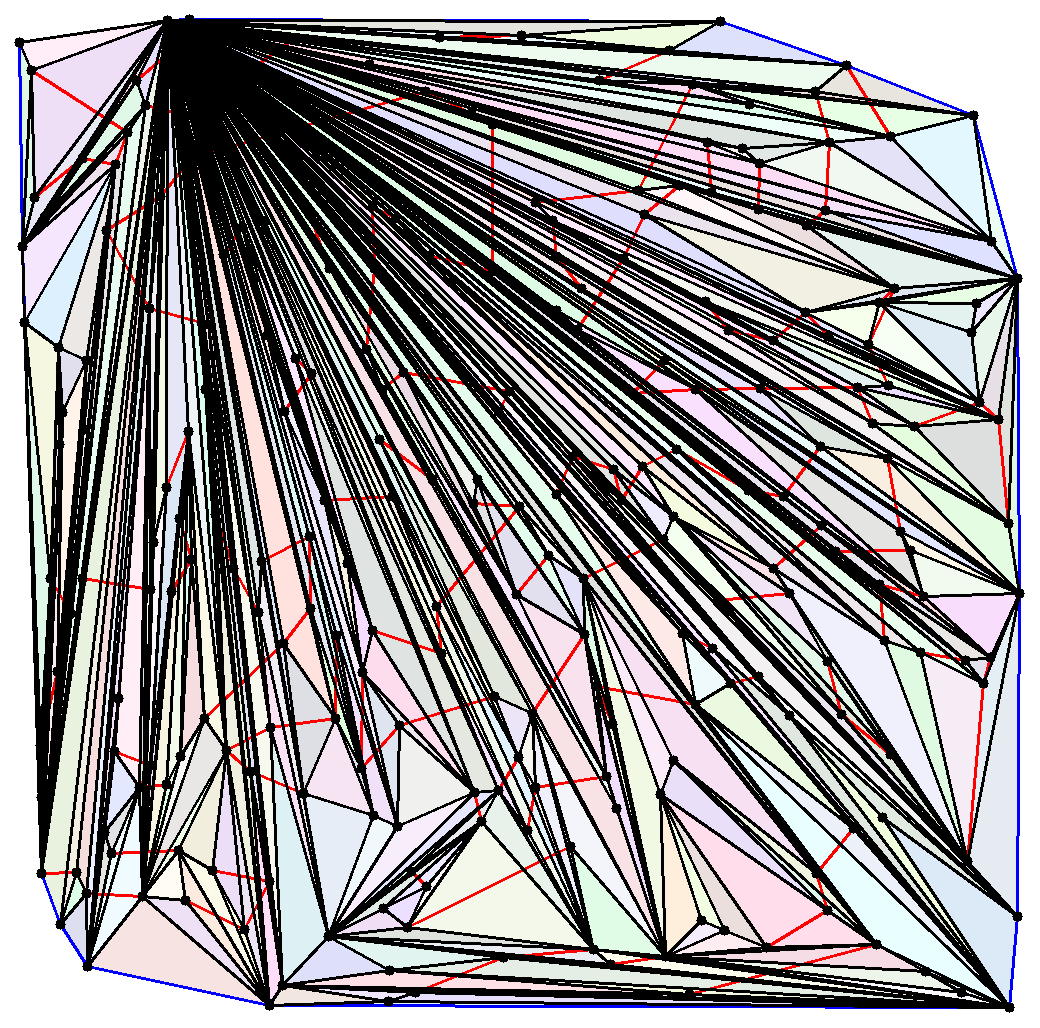
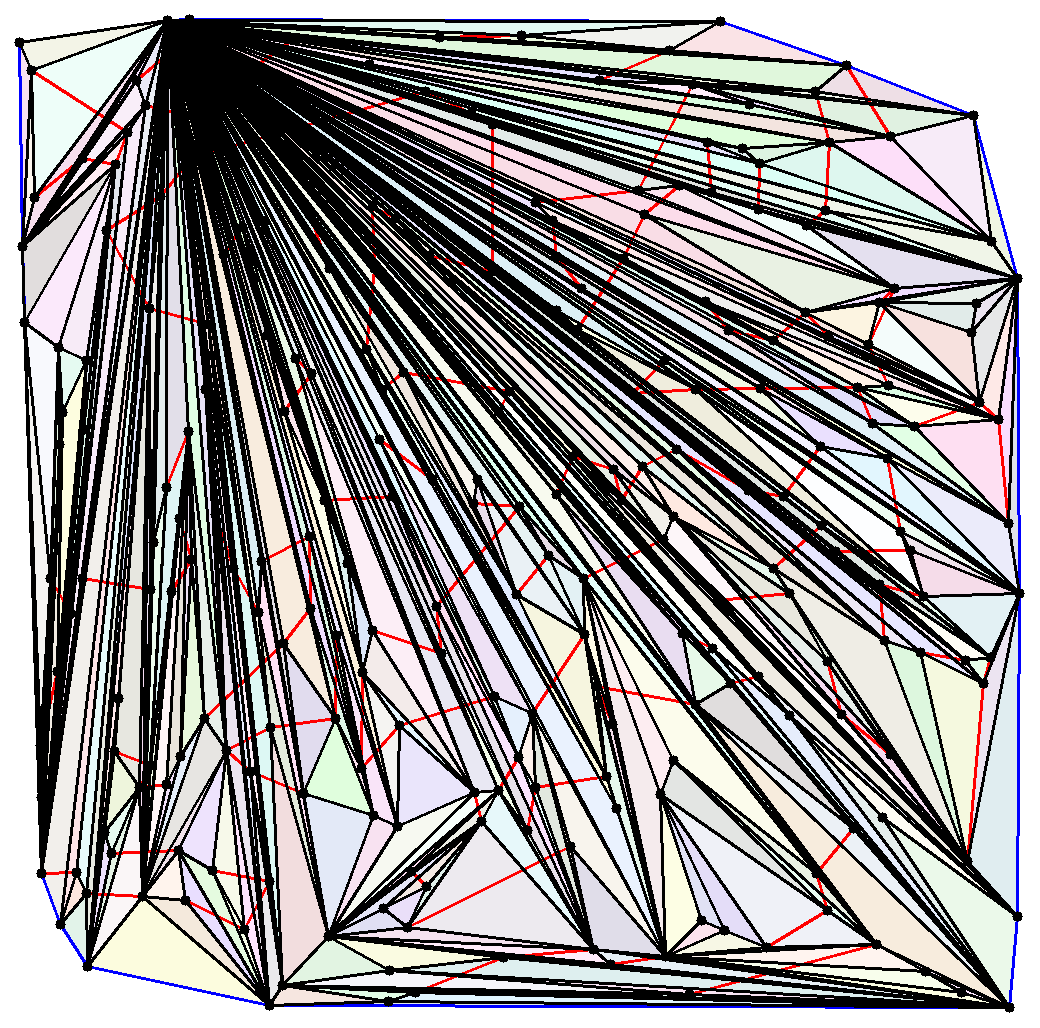
resolved duplicated edges issue

diff --git a/data.cpp b/data.cpp
@@ -117,14 +117,12 @@ void Instance::triangulate(){
 			//std::cout << "inserted " << i << ": " << triangles.size() << std::endl;
 		}
 	int i=0;
-	//DrawResult(std::to_string(i));
+	DrawResult(std::to_string(i));
 	for (std::pair<int, int> con : constraints){
 		i++;
 		resolve_cross(con);
-		//if (i<10)
-		//	DrawResult(std::to_string(i));
+		DrawResult(std::to_string(i));
 	}
-	DrawResult("");
 }
 
 void Instance::triangulate_polygon(std::deque<int> polygon){
@@ -406,6 +404,10 @@ MyNum turn(Point p1, Point p2, Point p3){
 	return (p2.x - p1.x) * (p3.y - p1.y) - (p2.y - p1.y) * (p3.x - p1.x);
 }
 
+std::pair<int, int> sorted_pair(int a, int b) {
+	return (a > b) ? std::make_pair(b, a) : std::make_pair(a, b); 
+}
+
 void Data::ReadData(){
 	cout << "--------------------ReadData--------------------" << endl;
 	Json::Value root;
@@ -461,16 +463,16 @@ void Data::WriteData(){
 	std::set<std::pair<int, int>> const_edges;
 	std::set<std::pair<int, int>> int_edges;
 	for (std::pair<int, int> e : inst->constraints){
-		const_edges.insert(e);
+		const_edges.insert(sorted_pair(e.first, e.second));
 	}
 	for (int i = 1 ; i < inst->boundary.size() ; i++)
-		const_edges.insert(std::make_pair(inst->boundary[i-1], inst->boundary[i]));
-	const_edges.insert(std::make_pair(inst->boundary[0], inst->boundary[inst->boundary.size()-1]));
+		const_edges.insert(sorted_pair(inst->boundary[i-1], inst->boundary[i]));
+	const_edges.insert(sorted_pair(inst->boundary[0], inst->boundary[inst->boundary.size()-1]));
 	cout<<"Number of Triangles: "<< inst->triangles.size() <<endl;
 	for (Triangle* t : inst->triangles) {
-		std::pair<int, int> e1 = std::make_pair(t->p[0], t->p[1]);
-		std::pair<int, int> e2 = std::make_pair(t->p[1], t->p[2]);
-		std::pair<int, int> e3 = std::make_pair(t->p[0], t->p[2]);
+		std::pair<int, int> e1 = sorted_pair(t->p[0], t->p[1]);
+		std::pair<int, int> e2 = sorted_pair(t->p[1], t->p[2]);
+		std::pair<int, int> e3 = sorted_pair(t->p[0], t->p[2]);
 		auto cend = const_edges.end();
 		auto iend = int_edges.end();
 		// if (const_edges.find(e1) == cend && const_edges.find(e2) == cend && int_edges.find(e1) == iend && int_edges.find(e2) == iend)
@@ -536,24 +538,24 @@ void Data::DrawResult(){
 	std::set<std::pair<int, int>> const_edges;
 	std::set<std::pair<int, int>> int_edges;
 	for (std::pair<int, int> e : inst->constraints){
-		const_edges.insert(e);
+		const_edges.insert(sorted_pair(e.first, e.second));
 		cv::line(img, cv::Point(minw+(int)inst->pts[e.first].x.toDouble()*rad,minh-(int)inst->pts[e.first].y.toDouble()*rad), cv::Point(minw+(int)inst->pts[e.second].x.toDouble()*rad,minh-(int)inst->pts[e.second].y.toDouble()*rad), cv::Scalar(0,0,255), 2);
 	}
 	cout<<inst->boundary.size()<<endl;
 	for (int i = 1 ; i < inst->boundary.size() ; i++){
-		const_edges.insert(std::make_pair(inst->boundary[i-1], inst->boundary[i]));
+		const_edges.insert(sorted_pair(inst->boundary[i-1], inst->boundary[i]));
 		cv::line(img, cv::Point(minw+(int)inst->pts[inst->boundary[i-1]].x.toDouble()*rad,minh-(int)inst->pts[inst->boundary[i-1]].y.toDouble()*rad), cv::Point(minw+(int)inst->pts[inst->boundary[i]].x.toDouble()*rad,minh-(int)inst->pts[inst->boundary[i]].y.toDouble()*rad), cv::Scalar(255,0,0), 2);
 	}
-	const_edges.insert(std::make_pair(inst->boundary[0], inst->boundary[inst->boundary.size()-1]));
+	const_edges.insert(sorted_pair(inst->boundary[0], inst->boundary[inst->boundary.size()-1]));
 	//cout<<"const edges"<<endl;
-	for (std::pair<int, int> e:const_edges)
+	//for (std::pair<int, int> e:const_edges)
 		//cout<<e.first<<" "<<e.second<<endl;
 	cv::line(img, cv::Point(minw+(int)inst->pts[inst->boundary[0]].x.toDouble()*rad,minh-(int)inst->pts[inst->boundary[0]].y.toDouble()*rad), cv::Point(minw+(int)inst->pts[inst->boundary[inst->boundary.size()-1]].x.toDouble()*rad,minh-(int)inst->pts[inst->boundary[inst->boundary.size()-1]].y.toDouble()*rad), cv::Scalar(255,0,0), 2);
 	//cout<<"new edges"<<endl;
 	for (Triangle* t : inst->triangles) {
-		std::pair<int, int> e1 = std::make_pair(t->p[0], t->p[1]);
-		std::pair<int, int> e2 = std::make_pair(t->p[1], t->p[2]);
-		std::pair<int, int> e3 = std::make_pair(t->p[0], t->p[2]);
+		std::pair<int, int> e1 = sorted_pair(t->p[0], t->p[1]);
+		std::pair<int, int> e2 = sorted_pair(t->p[1], t->p[2]);
+		std::pair<int, int> e3 = sorted_pair(t->p[0], t->p[2]);
 		auto cend = const_edges.end();
 		auto iend = int_edges.end();
 		if (const_edges.find(e1) == cend && int_edges.find(e1) == iend){
@@ -617,24 +619,24 @@ void Instance::DrawResult(string s){
 	std::set<std::pair<int, int>> const_edges;
 	std::set<std::pair<int, int>> int_edges;
 	for (std::pair<int, int> e : this->constraints){
-		const_edges.insert(e);
+		const_edges.insert(sorted_pair(e.first, e.second));
 		cv::line(img, cv::Point(minw+(int)this->pts[e.first].x.toDouble()*rad,minh-(int)this->pts[e.first].y.toDouble()*rad), cv::Point(minw+(int)this->pts[e.second].x.toDouble()*rad,minh-(int)this->pts[e.second].y.toDouble()*rad), cv::Scalar(0,0,255), 2);
 	}
 	cout<<this->boundary.size()<<endl;
 	for (int i = 1 ; i < this->boundary.size() ; i++){
-		const_edges.insert(std::make_pair(this->boundary[i-1], this->boundary[i]));
+		const_edges.insert(sorted_pair(this->boundary[i-1], this->boundary[i]));
 		cv::line(img, cv::Point(minw+(int)this->pts[this->boundary[i-1]].x.toDouble()*rad,minh-(int)this->pts[this->boundary[i-1]].y.toDouble()*rad), cv::Point(minw+(int)this->pts[this->boundary[i]].x.toDouble()*rad,minh-(int)this->pts[this->boundary[i]].y.toDouble()*rad), cv::Scalar(255,0,0), 2);
 	}
-	const_edges.insert(std::make_pair(this->boundary[0], this->boundary[this->boundary.size()-1]));
+	const_edges.insert(sorted_pair(this->boundary[0], this->boundary[this->boundary.size()-1]));
 	//cout<<"const edges"<<endl;
 	for (std::pair<int, int> e:const_edges)
 		//cout<<e.first<<" "<<e.second<<endl;
 	cv::line(img, cv::Point(minw+(int)this->pts[this->boundary[0]].x.toDouble()*rad,minh-(int)this->pts[this->boundary[0]].y.toDouble()*rad), cv::Point(minw+(int)this->pts[this->boundary[this->boundary.size()-1]].x.toDouble()*rad,minh-(int)this->pts[this->boundary[this->boundary.size()-1]].y.toDouble()*rad), cv::Scalar(255,0,0), 2);
 	//cout<<"new edges"<<endl;
 	for (Triangle* t : this->triangles) {
-		std::pair<int, int> e1 = std::make_pair(t->p[0], t->p[1]);
-		std::pair<int, int> e2 = std::make_pair(t->p[1], t->p[2]);
-		std::pair<int, int> e3 = std::make_pair(t->p[0], t->p[2]);
+		std::pair<int, int> e1 = sorted_pair(t->p[0], t->p[1]);
+		std::pair<int, int> e2 = sorted_pair(t->p[1], t->p[2]);
+		std::pair<int, int> e3 = sorted_pair(t->p[0], t->p[2]);
 		auto cend = const_edges.end();
 		auto iend = int_edges.end();
 		if (const_edges.find(e1) == cend && int_edges.find(e1) == iend){

diff --git a/data.h b/data.h
@@ -64,6 +64,7 @@ class Instance{
 };
 
 MyNum turn(Point, Point, Point); // if CCw, >0 / if CW, <0 / if colinear, ==0
+std::pair<int, int> sorted_pair(int, int);
 
 // class Polygon{
 // 	public:
